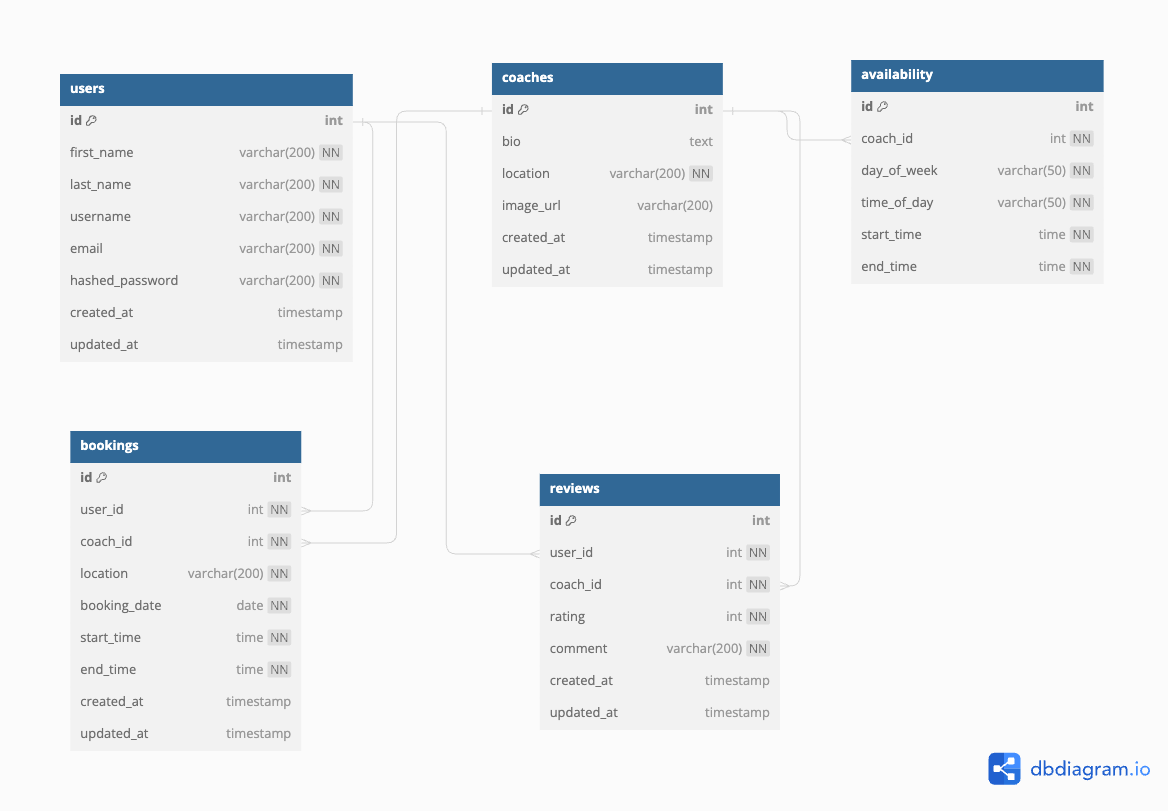
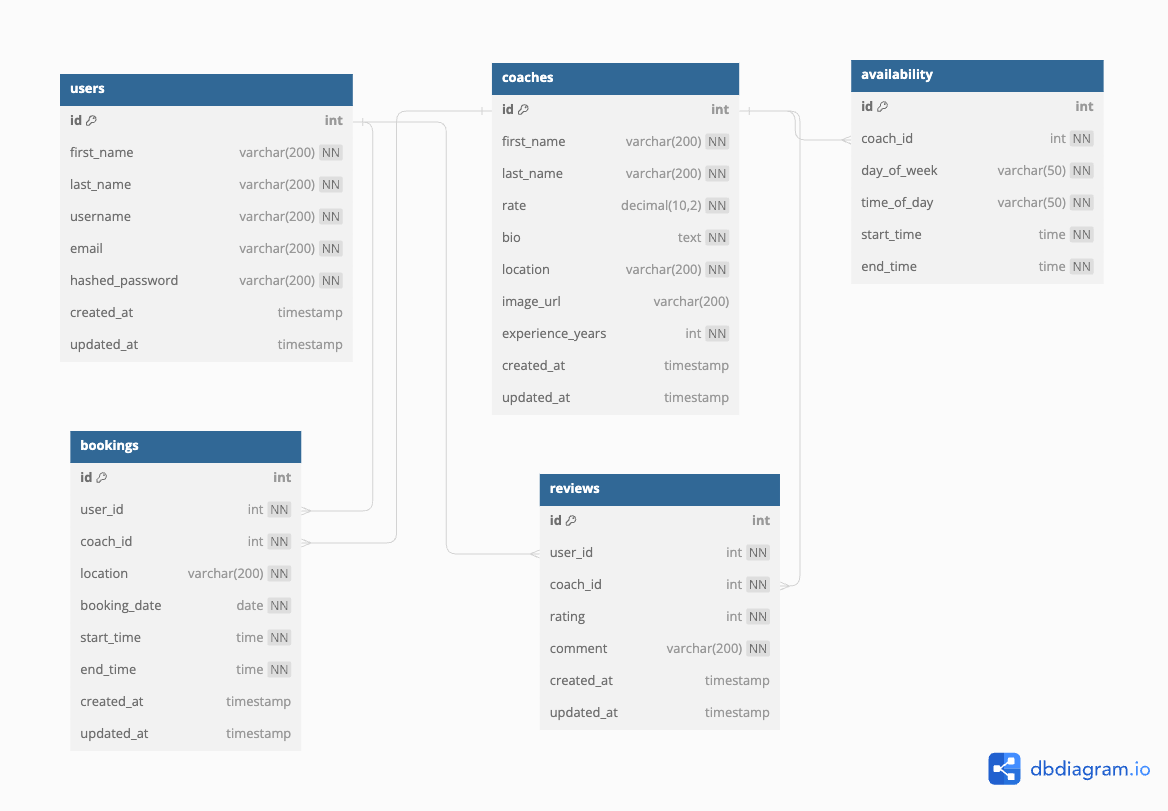
updated schema to add name to coach, as well as experience and rate

diff --git a/project-planning/DB-Schema.md b/project-planning/DB-Schema.md
@@ -2,60 +2,64 @@
 
 ![DB Schema](../images/West%20Coach%20Best%20Coach.png)
 
-# Tables
+## Tables
 
-## Users Table
-| Column          | Data Type      | Constraints              |
-|-----------------|----------------|--------------------------|
-| id              | int            | PRIMARY KEY, AUTO_INCREMENT |
-| first_name      | varchar(200)   | NOT NULL                 |
-| last_name       | varchar(200)   | NOT NULL                 |
-| username        | varchar(200)   | NOT NULL, UNIQUE         |
-| email           | varchar(200)   | NOT NULL, UNIQUE         |
-| hashed_password | varchar(200)   | NOT NULL                 |
-| created_at      | timestamp      | DEFAULT `now()`          |
-| updated_at      | timestamp      | DEFAULT `now()`          |
+### Users Table
+| Column          | Data Type      | Constraints                      |
+|-----------------|----------------|----------------------------------|
+| id              | int            | PRIMARY KEY, AUTO_INCREMENT      |
+| first_name      | varchar(200)   | NOT NULL                         |
+| last_name       | varchar(200)   | NOT NULL                         |
+| username        | varchar(200)   | NOT NULL, UNIQUE                 |
+| email           | varchar(200)   | NOT NULL, UNIQUE                 |
+| hashed_password | varchar(200)   | NOT NULL                         |
+| created_at      | timestamp      | DEFAULT `now()`                  |
+| updated_at      | timestamp      | DEFAULT `now()`                  |
 
-## Coaches Table
-| Column    | Data Type      | Constraints              |
-|-----------|----------------|--------------------------|
-| id        | int            | PRIMARY KEY, AUTO_INCREMENT |
-| bio       | text           |                          |
-| location  | varchar(200)   | NOT NULL                 |
-| image_url | varchar(200)   |                          |
-| created_at| timestamp      | DEFAULT `now()`          |
-| updated_at| timestamp      | DEFAULT `now()`          |
+### Coaches Table
+| Column           | Data Type      | Constraints                      |
+|------------------|----------------|----------------------------------|
+| id               | int            | PRIMARY KEY, AUTO_INCREMENT      |
+| first_name       | varchar(200)   | NOT NULL                         |
+| last_name        | varchar(200)   | NOT NULL                         |
+| rate             | decimal(10, 2) | NOT NULL                         |
+| bio              | text           | NOT NULL                         |
+| location         | varchar(200)   | NOT NULL                         |
+| image_url        | varchar(200)   |                                  |
+| experience_years | int            | NOT NULL                         |
+| created_at       | timestamp      | DEFAULT `now()`                  |
+| updated_at       | timestamp      | DEFAULT `now()`                  |
 
-## Bookings Table
-| Column        | Data Type      | Constraints              |
-|---------------|----------------|--------------------------|
-| id            | int            | PRIMARY KEY, AUTO_INCREMENT |
+### Bookings Table
+| Column        | Data Type      | Constraints                      |
+|---------------|----------------|----------------------------------|
+| id            | int            | PRIMARY KEY, AUTO_INCREMENT      |
 | user_id       | int            | NOT NULL, FOREIGN KEY REFERENCES users(id) |
 | coach_id      | int            | NOT NULL, FOREIGN KEY REFERENCES coaches(id) |
-| location      | varchar(200)   | NOT NULL                 |
-| booking_date  | date           | NOT NULL                 |
-| start_time    | time           | NOT NULL                 |
-| end_time      | time           | NOT NULL                 |
-| created_at    | timestamp      | DEFAULT `now()`          |
-| updated_at    | timestamp      | DEFAULT `now()`          |
+| location      | varchar(200)   | NOT NULL                         |
+| booking_date  | date           | NOT NULL                         |
+| start_time    | time           | NOT NULL                         |
+| end_time      | time           | NOT NULL                         |
+| created_at    | timestamp      | DEFAULT `now()`                  |
+| updated_at    | timestamp      | DEFAULT `now()`                  |
 
-## Availability Table
-| Column        | Data Type      | Constraints              |
-|---------------|----------------|--------------------------|
-| id            | int            | PRIMARY KEY, AUTO_INCREMENT |
+### Availability Table
+| Column        | Data Type      | Constraints                      |
+|---------------|----------------|----------------------------------|
+| id            | int            | PRIMARY KEY, AUTO_INCREMENT      |
 | coach_id      | int            | NOT NULL, FOREIGN KEY REFERENCES coaches(id) |
-| day_of_week   | varchar(50)    | NOT NULL                 |
-| time_of_day   | varchar(50)    | NOT NULL                 |
-| start_time    | time           | NOT NULL                 |
-| end_time      | time           | NOT NULL                 |
+| day_of_week   | varchar(50)    | NOT NULL                         |
+| time_of_day   | varchar(50)    | NOT NULL                         |
+| start_time    | time           | NOT NULL                         |
+| end_time      | time           | NOT NULL                         |
 
-## Reviews Table
-| Column        | Data Type      | Constraints              |
-|---------------|----------------|--------------------------|
-| id            | int            | PRIMARY KEY, AUTO_INCREMENT |
+### Reviews Table
+| Column        | Data Type      | Constraints                      |
+|---------------|----------------|----------------------------------|
+| id            | int            | PRIMARY KEY, AUTO_INCREMENT      |
 | user_id       | int            | NOT NULL, FOREIGN KEY REFERENCES users(id) |
 | coach_id      | int            | NOT NULL, FOREIGN KEY REFERENCES coaches(id) |
-| rating        | int            | NOT NULL                 |
-| comment       | varchar(200)   | NOT NULL                 |
-| created_at    | timestamp      | DEFAULT `now()`          |
-| updated_at    | timestamp      | DEFAULT `now()`          | 
+| rating        | int            | NOT NULL                         |
+| comment       | varchar(200)   | NOT NULL                         |
+| created_at    | timestamp      | DEFAULT `now()`                  |
+| updated_at    | timestamp      | DEFAULT `now()`                  |
